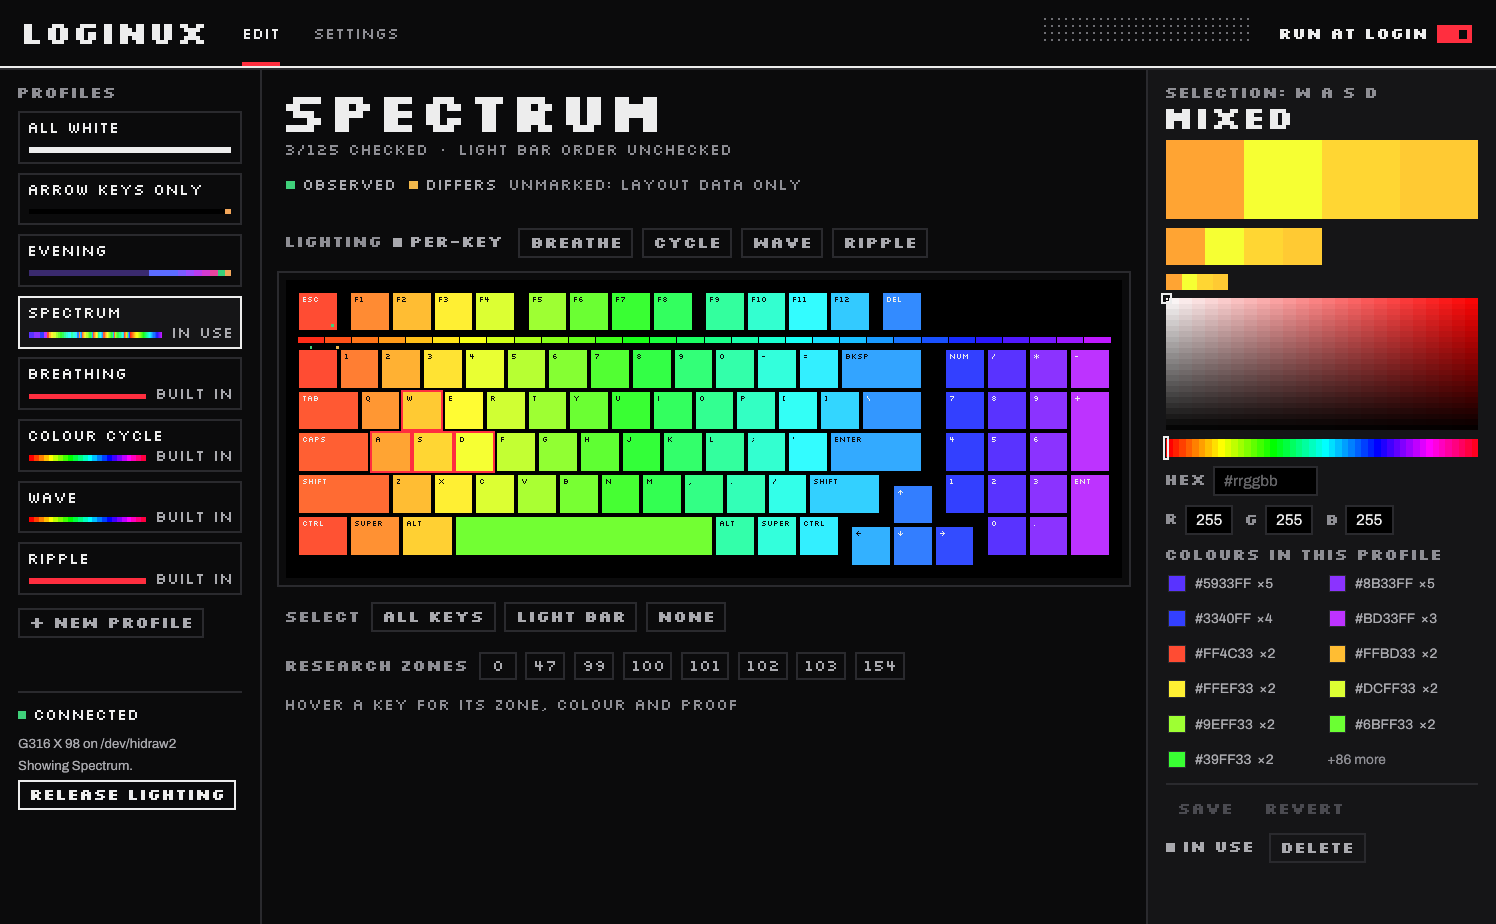
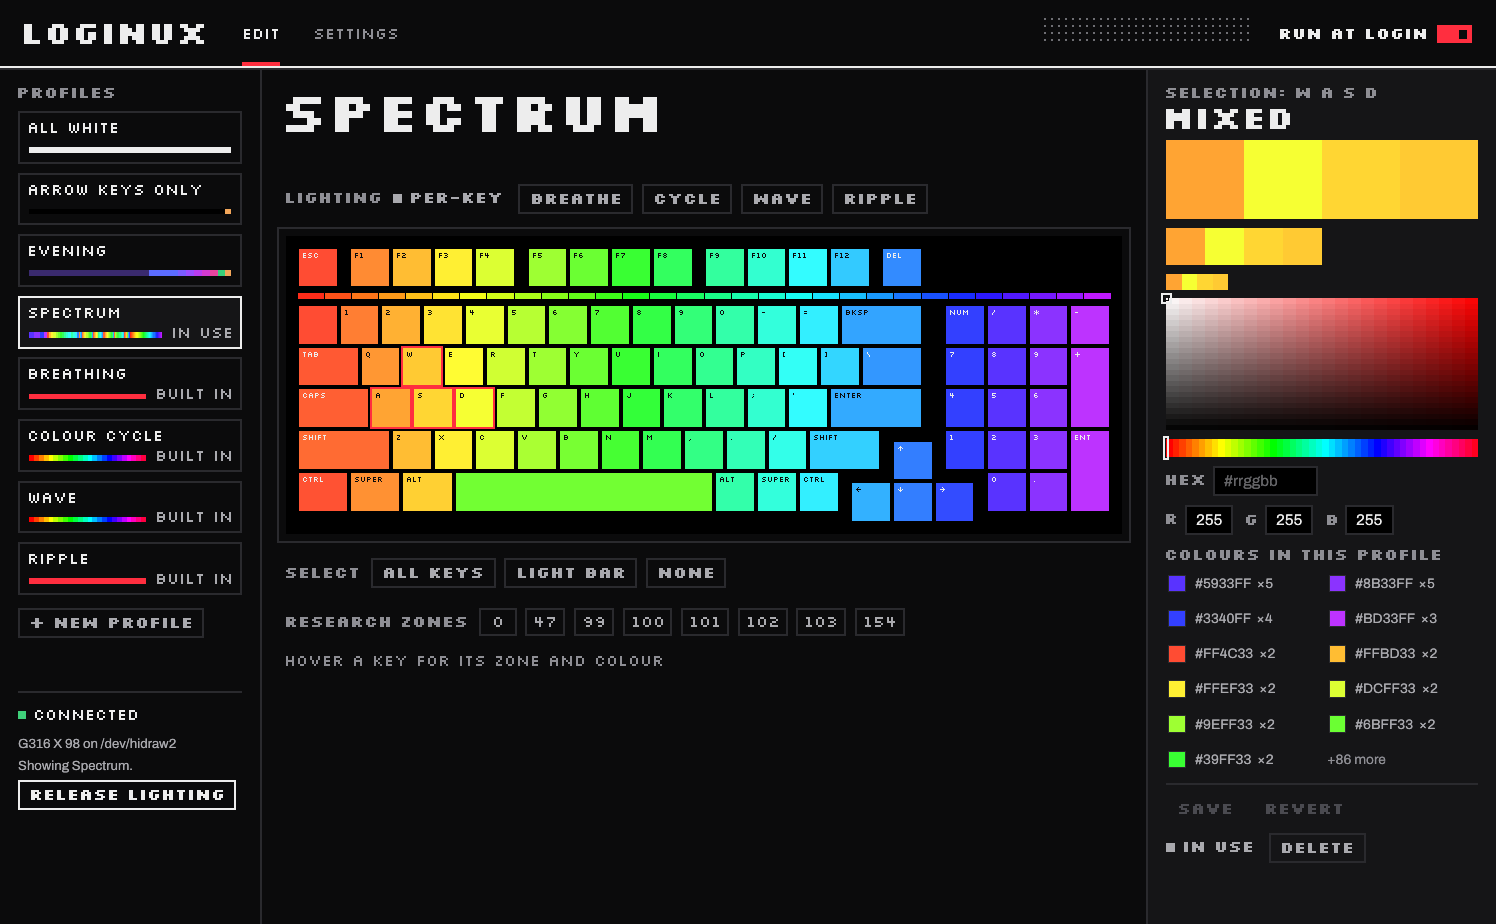
Editor: proof shows in the channel check, not while editing
The edit page carried the channel check's proof: the observed, differs and
layout-data key, the count of checked zones, and green and amber marks on the
keys. That is calibration, out of place while painting a profile. The edit
page now shows colour and its editing state (LIVE, UNSAVED); the key, the
marks and the proof in the hover line stay in the channel check, and the
checked count stays under SETTINGS. PRODUCT.md, DESIGN.md, the design
sidecar, the usage guide and the README screenshots follow.

Changed region(s): [[0.1845, 0.1515, 0.7687, 0.7273], [0.3382, 0.7576, 0.492, 0.7879], [0.2152, 0.7576, 0.246, 0.7879]]

diff --git a/src/ui.rs b/src/ui.rs
@@ -1505,16 +1505,10 @@ impl App {
         label(ui, &title, TITLE, TEXT);
         ui.add_space(4.0);
         let model = self.model;
+        // Editing state only: what the channel check has proven belongs to the check.
         let live = matches!(self.status().map(|s| &s.control), Some(Control::Preview));
-        let meta = format!(
-            "{}{}{}",
-            if live { "LIVE \u{00b7} " } else { "" },
-            self.checked(),
-            if self.dirty() { " \u{00b7} UNSAVED" } else { "" }
-        );
-        label(ui, &meta, SMALL, if self.dirty() { TEXT } else { LABEL });
-        ui.add_space(6.0);
-        proof_key(ui);
+        let meta = [live.then_some("LIVE"), self.dirty().then_some("UNSAVED")].into_iter().flatten().collect::<Vec<_>>();
+        label(ui, &meta.join(" \u{00b7} "), SMALL, if self.dirty() { TEXT } else { LABEL });
         ui.add_space(18.0);
         if self.open.is_none() {
             body(ui, "Create a profile in the left column to start painting.", TEXT2, 14.0);
@@ -1607,8 +1601,10 @@ impl App {
     }
 
     fn hover_line(&self, ui: &mut Ui) {
+        let checking = self.tab == Tab::Check;
         let Some(id) = self.hover else {
-            label(ui, "HOVER A KEY FOR ITS ZONE, COLOUR AND PROOF", SMALL, LABEL);
+            let hint = if checking { "HOVER A KEY FOR ITS ZONE, COLOUR AND PROOF" } else { "HOVER A KEY FOR ITS ZONE AND COLOUR" };
+            label(ui, hint, SMALL, LABEL);
             return;
         };
         let Some(z) = self.model.zone(id) else { return };
@@ -1619,7 +1615,8 @@ impl App {
             None => "LAYOUT DATA ONLY".into(),
         };
         let name = if z.name.is_empty() { format!("ZONE {id}") } else { z.name.to_uppercase() };
-        label(ui, &format!("{name} \u{00b7} ZONE {id} \u{00b7} {colour} \u{00b7} {proof}"), SMALL, TEXT2);
+        let proof = if checking { format!(" \u{00b7} {proof}") } else { String::new() };
+        label(ui, &format!("{name} \u{00b7} ZONE {id} \u{00b7} {colour}{proof}"), SMALL, TEXT2);
     }
 
     /// Draws the board; returns a click as (zone or empty space, add-to-selection).
@@ -1671,7 +1668,7 @@ impl App {
                     px_text(p, r.min + vec2(4.0, 4.0), legend, LEGEND, ink);
                 }
             }
-            if let Some(seen) = self.checks.get(&z.id) {
+            if checking && let Some(seen) = self.checks.get(&z.id) {
                 let ok = seen.saw == z.name;
                 let m = whole(3.0 * ppp) / ppp;
                 let at = if z.kind == Kind::Strip { pos2(r.center().x - m / 2.0, r.max.y + 3.0) } else { pos2(r.max.x - m - 3.0, r.max.y - m - 3.0) };
@@ -2782,14 +2779,19 @@ mod tests {
         w.click_at(corner);
         assert!(w.app.selection.is_empty(), "a plain click there clears it");
 
-        // Hovering names a key with its proof: checked as expected, checked as different, or layout data only.
+        // In the channel check, hovering names a key with its proof: checked as
+        // expected, checked as different, or layout data only.
         w.app.checks.insert(esc, Seen { saw: "esc".into(), date: "2026-10-22".into() });
         w.app.checks.insert(f1, Seen { saw: "nothing".into(), date: "2026-10-22".into() });
+        w.app.tab = Tab::Check;
+        w.run(1);
         for id in [esc, f1, f2] {
             let at = w.zone(id);
             w.hover(at);
             assert_eq!(w.app.hover, Some(id));
         }
+        w.app.tab = Tab::Edit;
+        w.run(1);
 
         // Dragging from empty board selects what the box touches; with shift it adds.
         let to = w.zone(f1);

diff --git a/DESIGN.md b/DESIGN.md
@@ -232,7 +232,7 @@ A fixed three-column instrument under a header. The window opens at 1360 x 840pt
 
 - **Header:** 64pt tall on Ground, closed by a 2pt Text-coloured rule. Wordmark 22pt from the left; tabs 36pt after it, 34pt apart, hit areas padded 8pt; the RUN AT LOGIN switch 22pt from the right; the dot patch (192 x 30pt) sits 22pt left of it and drops out when the tabs need the room.
 - **Left column:** 236pt wide with 16pt margins on Ground: profiles in 48pt ruled boxes, then a rule and the connection status block pinned to the bottom.
-- **Centre column:** Ground with 24pt margins, scrolling vertically: title, meta line, proof key, then the board at the column's width (at most 1200pt, key unit at most 60pt), then selection and research controls.
+- **Centre column:** Ground with 24pt margins, scrolling vertically: title, meta line (in the channel check, the proof key), then the board at the column's width (at most 1200pt, key unit at most 60pt), then selection and research controls.
 - **Right column:** 316pt wide with 16pt margins on Panel: the specimen of the selection (label, hex, swatch at three sizes), picker, value rows, colour list, then save and use actions.
 - **Column rules:** 2pt Rule-coloured verticals at both column edges, drawn on top of the panels.
 - **Rhythm:** item spacing 8pt by default (7pt in the status block); added gaps step through 2, 4, 6, 10, 12, 14 and 18pt; the board group gets 18pt before and 14pt after.
@@ -286,7 +286,7 @@ Full-width 48pt boxes with a 2pt Rule edge and 10pt inset. The name sits in Smal
 The selection shown as a type specimen: a Label line naming the selection (up to five names, else a zone count), the hex in Hex caps, then the colour as three flat swatches of full width x 72pt, half width x 34pt and one-fifth width x 14pt, split evenly when several colours are selected. With nothing selected, a 72pt dot-matrix patch and one line of instruction take the swatch's place.
 
 ### Keyboard Board (signature)
-The board on a black body with 10pt padding, framed by a 2pt Rule outline set 8pt outside. Keys are inset by a snapped gap of a tenth of a unit (at least 2pt); strip segments touch, separated by a single pixel. Unpainted zones are Dark Key with Secondary Text legends; painted zones show the exact RGB, with a black or white legend picked by luminance. Selection is a 2pt Signal Red outline just outside the key; hover is a 1pt Text outline; the drag marquee is a 1pt red rectangle. Proof marks are 3pt squares, green for observed and amber for differs, explained by the proof key above the board (unmarked means layout data only).
+The board on a black body with 10pt padding, framed by a 2pt Rule outline set 8pt outside. Keys are inset by a snapped gap of a tenth of a unit (at least 2pt); strip segments touch, separated by a single pixel. Unpainted zones are Dark Key with Secondary Text legends; painted zones show the exact RGB, with a black or white legend picked by luminance. Selection is a 2pt Signal Red outline just outside the key; hover is a 1pt Text outline; the drag marquee is a 1pt red rectangle. In the channel check, proof marks are 3pt squares, green for observed and amber for differs, explained by the proof key above the board (unmarked means layout data only). The editing board shows colour only.
 
 ### Status Block
 An 8pt square (Observed Green when connected, Caution Amber for no engine, no access or errors, Label Grey otherwise) beside a Small-caps status word, then Archivo detail lines and the lighting action at the column's foot.

diff --git a/.impeccable/surfaces/src-ui-rs.md b/.impeccable/surfaces/src-ui-rs.md
@@ -7,7 +7,7 @@ related_targets: []
 
 # Loginux editor window
 
-Scope: the native egui window (`loginux ui`). Visitor mode: Operate. Audience: Linux owners of the G316 X 98; jobs are set-once lighting and guided channel checks. Constraints: the window never opens the keyboard itself; it talks to the engine over the local socket. Live preview while painting. Proof stays visible.
+Scope: the native egui window (`loginux ui`). Visitor mode: Operate. Audience: Linux owners of the G316 X 98; jobs are set-once lighting and guided channel checks. Constraints: the window never opens the keyboard itself; it talks to the engine over the local socket. Live preview while painting. Proof shows in the channel check, not while editing.
 
 ## Direction contract
 
@@ -17,7 +17,7 @@ OWN-WORLD: Ground #0B0B0C, panels #151517, 2 px rules #2A2A2E, emphasis rules an
 
 STORY: The user sees at once which profile the keyboard shows, whether Loginux holds the lighting, and what is proven. They click keys, drag the picker, watch the board change live, save, then pick Use at login or Release lighting. Channel check lights one zone at a time and records what they saw.
 
-FIRST VIEWPORT: A 64 px header with the LOGINUX wordmark, EDIT and SETTINGS tabs (red underline on the active one; the channel check opens from SETTINGS), the dot patch, and the RUN AT LOGIN switch at the right. Below it, three columns. Left, 220 px: profiles in ruled boxes with colour strips, then connection status and RELEASE LIGHTING at the bottom. Centre: the profile name in 48 px bitmap caps, a proof line, and the keyboard on its black body at full width. Right, 300 px: the specimen column with the selection name, hex at 32 px, the swatch at three sizes, RGB rows, the picker and SAVE.
+FIRST VIEWPORT: A 64 px header with the LOGINUX wordmark, EDIT and SETTINGS tabs (red underline on the active one; the channel check opens from SETTINGS), the dot patch, and the RUN AT LOGIN switch at the right. Below it, three columns. Left, 220 px: profiles in ruled boxes with colour strips, then connection status and RELEASE LIGHTING at the bottom. Centre: the profile name in 48 px bitmap caps, its editing state (LIVE, UNSAVED), and the keyboard on its black body at full width. Right, 300 px: the specimen column with the selection name, hex at 32 px, the swatch at three sizes, RGB rows, the picker and SAVE.
 
 FORM: Bitmap Specimen, dark. This is the user's steer of the Emigre bitmap-specimen world, position 1 of the safer lineup and pinned by the user. seed:45ddbf08ecb486ea
 

diff --git a/docs/usage.md b/docs/usage.md
@@ -59,9 +59,9 @@ turn on RUN AT LOGIN (it needs the service installed, see below).
 The channel check, under SETTINGS (OPEN CHANNEL CHECK), lights one zone at a
 time, white, with everything else dark. You click where the light appeared, or
 answer that nothing lit or that it lit somewhere not on the map. Answers go to
-`~/.config/loginux/checks/KEYBOARD.toml` and show on the board as marks: green
-where the LED matched the map, amber where it did not. Until a zone is checked,
-its position is layout data and not proof.
+`~/.config/loginux/checks/KEYBOARD.toml` and show on the check's board as
+marks: green where the LED matched the map, amber where it did not. Until a
+zone is checked, its position is layout data and not proof.
 
 ## The tray icon
 

diff --git a/PRODUCT.md b/PRODUCT.md
@@ -105,7 +105,9 @@ remaining gaps are in
    a clean release, and unplug as the lighting fallback. Any device-setting
    write needs an explicit user action and a documented recovery path.
 2. Say what is proven. Observed, from metadata, and unknown stay distinct
-   everywhere.
+   wherever proof is shown: in the channel check, the research notes and the
+   docs. The editor shows colour; proof lives in the channel check (GbrFrn,
+   2026-10-23).
 3. Set once, then stay out of the way.
 4. Research is first-class but fenced: raw zones only by explicit number.
 5. One owner of the device at a time.
